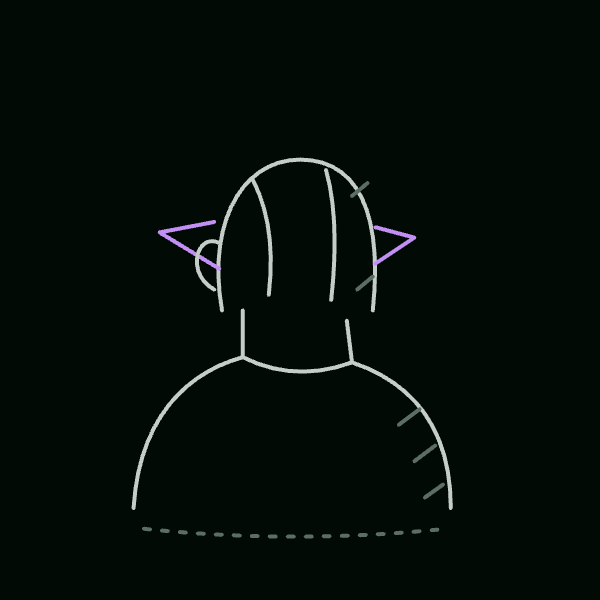
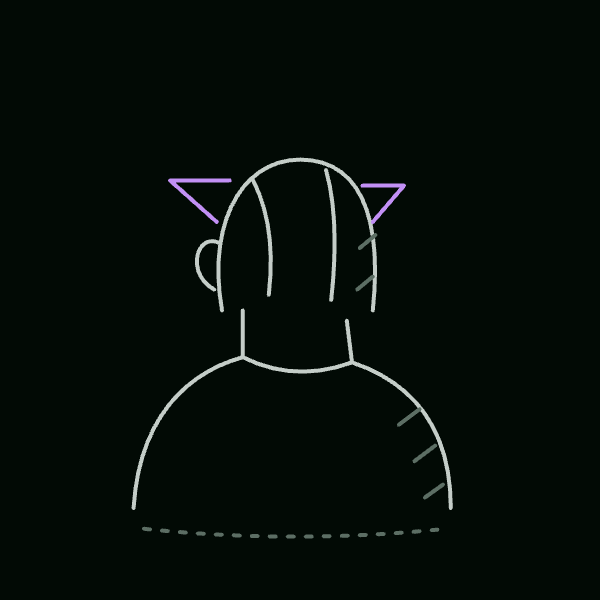
fix(art): settle the round-1 notes on Musse, Satobi and Balsamilco (#1336)
Claude-Session: https://claude.ai/code/session_018XDoqAeUxemrxHG8vErWvW

diff --git a/src/data/series/hunter-x-hunter/art/kakin-phase-5.ts b/src/data/series/hunter-x-hunter/art/kakin-phase-5.ts
@@ -173,7 +173,9 @@ export const KAKIN_PHASE_5_DRAWINGS = {
   // The small box Balsamilco opens with a sequence of buttons, in 3/4: its
   // walls with their thickness, the lid up with the keypad on it, and the
   // three vials of TSK-17 inside in tint, chapter 402 (named in 403). The
-  // box's shape and where its buttons sit are a frame check.
+  // box's shape and where its buttons sit are a frame check. No stage for
+  // Halkenburg possessing him: the Chapter 403 synopsis already shows it,
+  // in his own opening chapter, so there is no entry or exit to draw.
   'balsamilco': [
     { d: 'M28 110 L96 96 L132 112 L64 128 Z' },
     { d: 'M34 110 L96 98.5 L126 112 L64 125', role: 'soft' },
@@ -479,23 +481,20 @@ export const KAKIN_PHASE_5_DRAWINGS = {
 /** The phase 5 records whose drawing changes in Kakin's chapters (#1158). */
 export const kakinPhaseFiveRedrawn: Redrawings = {
   musse: [
-    // The same jacket crushed flat on the floor, the owl gone, and his
-    // handgun beside it in tint: Camilla's Cat's Name crushes the life out
-    // of him and Benjamin inherits Secret Window, chapter 373. Camilla picks
-    // the gun up after his death.
+    // The same jacket shoulder, empty, the owl gone, and his handgun dropped
+    // below it in tint: Camilla's Cat's Name crushes the life out of him and
+    // Benjamin inherits Secret Window, chapter 373. Camilla picks the gun up
+    // after his death.
     {
       ...KAKIN,
       chapter: 373,
       value: [
-        ...moved(
-          MUSSE_JACKET,
-          'translate(90 186) scale(0.8 0.4) translate(-80 -186)',
-        ),
+        ...moved(MUSSE_JACKET, 'translate(0 -30)'),
         {
-          d: 'M8 176 H54 L56 170 H12 Z M34 176 L30 186 H38 L42 176',
+          d: 'M52 176 H104 L106 168 H56 Z M84 176 L80 188 H90 L94 176',
           role: 'accent',
         },
-        { d: 'M2 188 H158', role: 'ambient', dashed: true },
+        { d: 'M2 192 H158', role: 'ambient', dashed: true },
       ],
     },
   ],

diff --git a/src/data/series/hunter-x-hunter/art/kakin-phase-2.ts b/src/data/series/hunter-x-hunter/art/kakin-phase-2.ts
@@ -432,15 +432,15 @@ export const KAKIN_PHASE_TWO_DRAWINGS = {
   'myuhan': [MYUHAN_TAPE, ...MYUHAN_SHOE, ...MYUHAN_ROLL, shadow(96, 168, 48)],
 
   // Satobi's short fair hair from behind and a little to his left, styled
-  // into a point at either side, the points in tint, the far one smaller,
-  // over the collar of his black suit: Luzurus's guard at the class,
+  // into a point at either side above the ears, the points in tint, the far
+  // one smaller, over the collar of his black suit: Luzurus's guard at the class,
   // chapter 369.
   'satobi': [
     { d: TURNED_SKULL },
-    { d: 'M47 70 L26 74 L49 88 M109 72 L124 76 L109 86', role: 'accent' },
+    { d: 'M53 54 L30 54 L48 70 M104 56 L120 56 L108 70', role: 'accent' },
     { d: TURNED_EAR },
     { d: 'M62 54 C68 66 70 80 68 98 M90 50 C94 64 94 82 92 100', role: 'soft' },
-    { d: 'M100 60 l6 -5 M102 96 l6 -5', role: 'ambient' },
+    { d: 'M103 80 l6 -5 M102 96 l6 -5', role: 'ambient' },
     { d: TURNED_COLLAR, role: 'soft' },
     ...TURNED_BODY,
   ],
